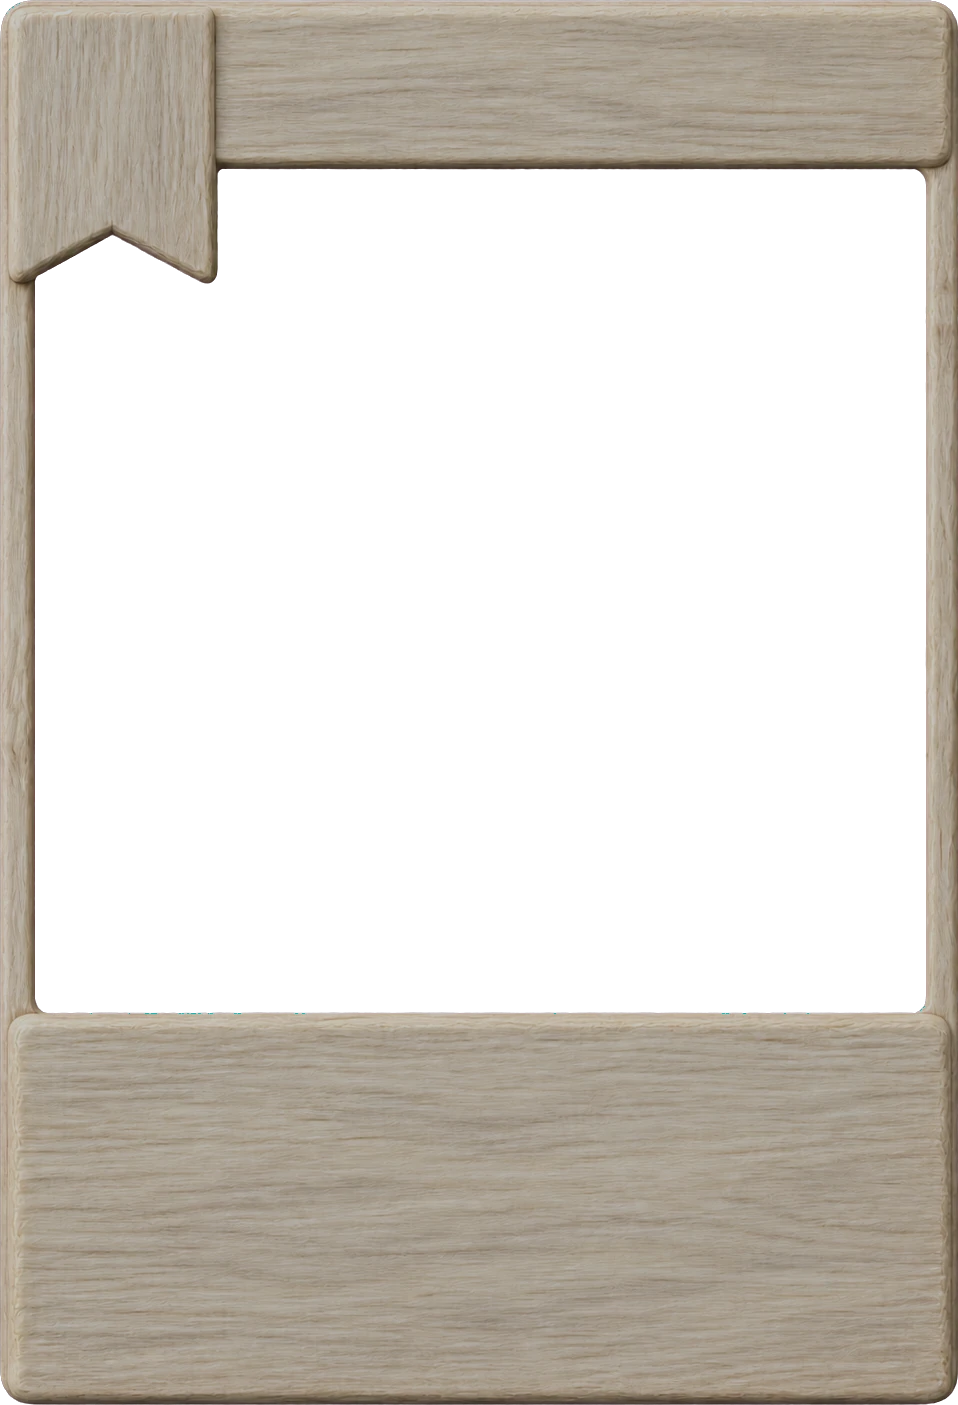
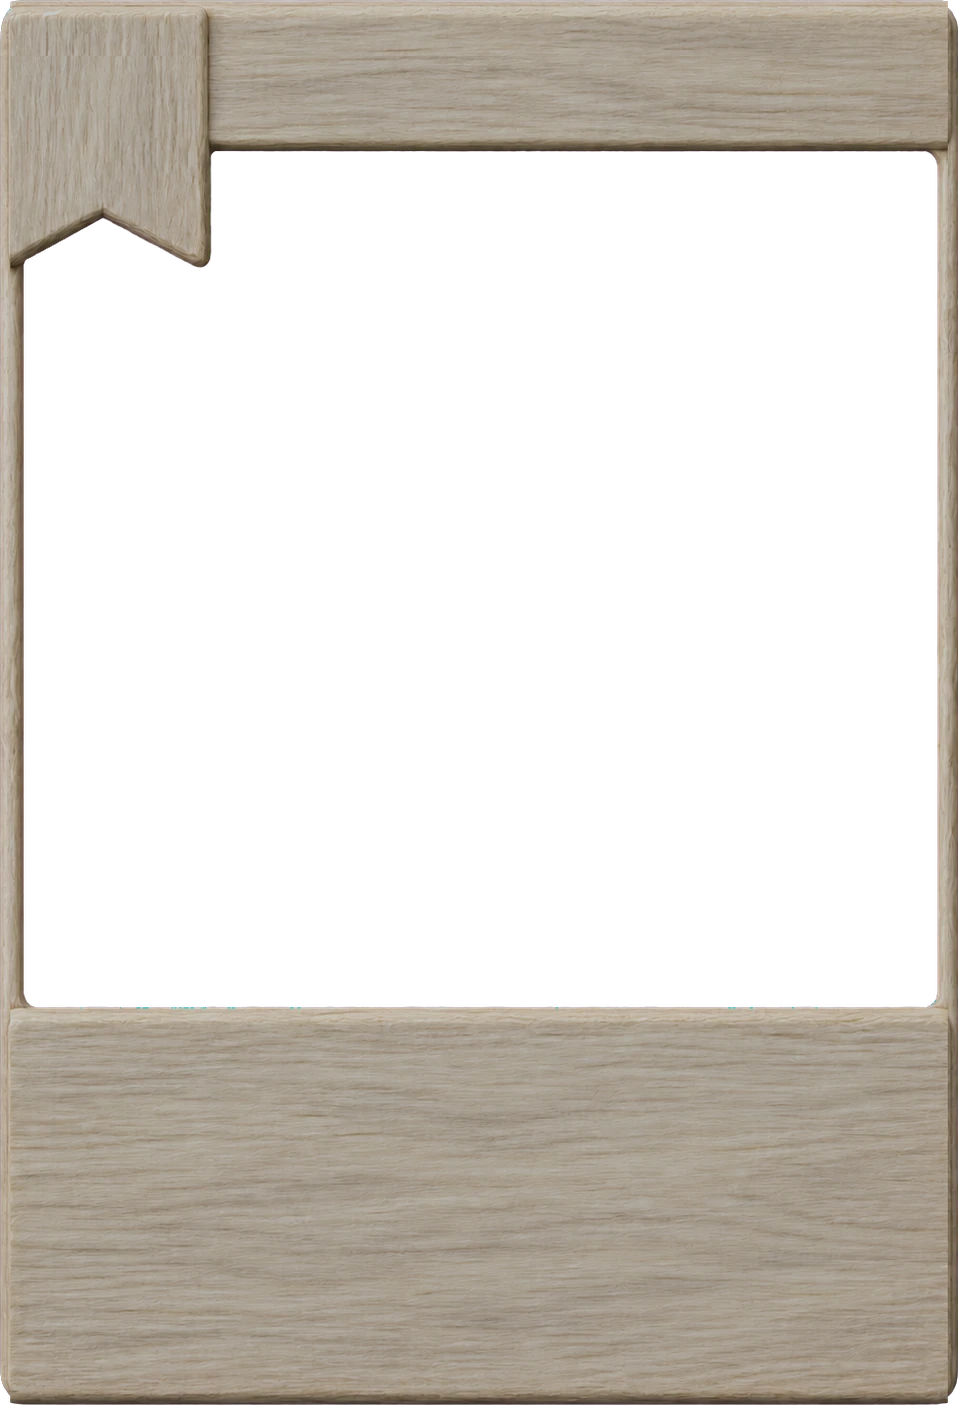
A thinner card frame: rails a third thinner and the name bar slimmer (Martin, 2026-10-04: a tad too thick), the painting's window the larger for it
Claude-Session: https://claude.ai/code/session_01XAhbFhuc5kuF4UA2Ub2dGh

diff --git a/animal_kingdom/web/static/app.css b/animal_kingdom/web/static/app.css
@@ -141,34 +141,34 @@ body:has(> #app > .mscr.home, > #app > .mscr.news, > #app > .mscr.sets, > #app >
 /* Anything set into a card wears its frame (.edge: the versus moment's gem ring): the frame's wood, tinted as the card is. */
 .edge { --bw: .55em; isolation: isolate; }
 .edge::before { content: ''; position: absolute; inset: 0; z-index: -1; border-radius: inherit; background: url(/static/kit2/card_frame.webp) 50% 3% / 420% auto; filter: var(--tint, none); }
-.card { --w: 180px; --bw: .73em; --fr: url(/static/kit2/card_frame.webp); --cut: 72.1%; position: relative; width: var(--w); height: calc(var(--w) * 1.467);
+.card { --w: 180px; --bw: .49em; --fr: url(/static/kit2/card_frame.webp); --cut: 71.7%; position: relative; width: var(--w); height: calc(var(--w) * 1.467);
   font-size: calc(var(--w) / 20); flex: none; border-radius: .45em; box-shadow: .2em .45em .9em rgba(0,0,0,.55); overflow: hidden; isolation: isolate; }
 .card.compact { --fr: url(/static/kit2/card_frame_compact.webp); --cut: 100%; }
 .card .cframe { position: absolute; inset: 0; z-index: 1; pointer-events: none; background: var(--fr) 0 0 / 100% 100% no-repeat;
   filter: var(--tint, none); clip-path: inset(0 0 calc(100% - var(--cut)) 0); }
 .card .cframe.pf { filter: var(--ptint, none); clip-path: inset(var(--cut) 0 0 0); }
 /* The painting fills the window, a hair under the frame's edge all round. */
-.card .pic { position: absolute; inset: 3.4em .6em .6em; background: #3a2c1a 50% 0 / cover no-repeat; display: grid; place-items: center; }
+.card .pic { position: absolute; inset: 3.05em .4em .4em; background: #3a2c1a 50% 0 / cover no-repeat; display: grid; place-items: center; }
 .card .pic span { font: 600 1.4em/1.1 'Fira Sans Condensed', sans-serif; color: #f3e3c0; text-align: center; padding: 1em; }
-.card .nbar { position: absolute; z-index: 2; top: .15em; height: 3.3em; left: 4.6em; right: .8em; display: flex; align-items: center; justify-content: center; padding: 0 .3em; }
+.card .nbar { position: absolute; z-index: 2; top: .1em; height: 3em; left: 4.45em; right: .55em; display: flex; align-items: center; justify-content: center; padding: 0 .3em; }
 .card .nbar span { font: 600 1.4em/1 'Fira Sans Condensed', sans-serif; letter-spacing: .01em; color: #1d140a; white-space: nowrap; overflow: hidden; text-overflow: ellipsis; }
 .card .nbar.two span { white-space: normal; text-wrap: balance; text-align: center; font-size: 1.08em; overflow: visible; }
-.card .stab { position: absolute; left: 0; top: 0; width: 4.53em; height: 5.91em; z-index: 3; }
+.card .stab { position: absolute; left: 0; top: 0; width: 4.39em; height: 5.57em; z-index: 3; }
 .card.rare, .st.rare, .edge.rare { --tint: saturate(0) brightness(1.1) sepia(.35) hue-rotate(180deg) saturate(1.6); }
 .card.legendary, .st.legendary, .edge.legendary { --tint: sepia(.6) saturate(2.2) brightness(1.08); }
 .card.rare { --ptint: saturate(0) brightness(1.27) sepia(.25) hue-rotate(180deg) saturate(1.1); }   /* Martin, 2026-10-04: paler steel on rares, */
 .card.legendary { --ptint: sepia(.6) saturate(1.5) brightness(1.16); }                             /* pale gold on legendaries */
-.card .stab .n { position: absolute; left: 0; right: 0; top: 1.15em; height: 2.9em; display: flex; justify-content: center; }
-.card .stab .n.two { top: 1.45em; height: 2.3em; }
+.card .stab .n { position: absolute; left: 0; right: 0; top: 1em; height: 2.9em; display: flex; justify-content: center; }
+.card .stab .n.two { top: 1.3em; height: 2.3em; }
 .card .stab .n img { display: block; height: 100%; filter: brightness(.16) sepia(.6); }
 .card .stab .n.up img { filter: brightness(.3) sepia(1) hue-rotate(60deg) saturate(4); } .card .stab .n.down img { filter: brightness(.35) sepia(1) hue-rotate(-30deg) saturate(5); }
 .card .stab .n b { font: 800 3.5em/.8 'Fira Sans Condensed', sans-serif; color: #1f1409; }
-.card .ctext { position: absolute; z-index: 2; left: .9em; right: .9em; bottom: .35em; height: 7.6em; padding: 0 .3em 1.2em; display: flex; flex-direction: column; justify-content: center; }
+.card .ctext { position: absolute; z-index: 2; left: .7em; right: .7em; bottom: .35em; height: 7.6em; padding: 0 .3em 1.2em; display: flex; flex-direction: column; justify-content: center; }
 .card .ctext p { margin: 0; font: 500 1.3em/1.14 'Fira Sans Condensed', sans-serif; color: #1a1108; text-align: center; text-wrap: pretty; }
 .card .ctext p b { font-weight: 800; }
 .card .ctext i { position: absolute; left: 0; right: 0; bottom: .15em; text-align: center; font: 700 1em/1 'Fira Sans Condensed', sans-serif; font-style: normal; letter-spacing: .1em; text-transform: uppercase; color: #3a2a18; }
 .card.compact .ctext { display: none; }
-.card:not(.compact) .pic { bottom: 8em; background-position: 50% var(--fy, 30%); }
+.card:not(.compact) .pic { bottom: 8.15em; background-position: 50% var(--fy, 30%); }
 /* Legendary: a slow sheen crosses the card. */
 .card.legendary::after { content: ''; position: absolute; top: -20%; bottom: -20%; left: 0; width: 35%; z-index: 4; pointer-events: none;
   background: linear-gradient(90deg, rgba(255,240,200,0), rgba(255,240,200,.16), rgba(255,240,200,0)); animation: cardsheen 5.5s ease-in-out infinite; }

diff --git a/animal_kingdom/web/static/game.css b/animal_kingdom/web/static/game.css
@@ -397,8 +397,8 @@
 .game .recent .tgap { width: 10px; }
 /* A hand card read large (hover, or the tutorial explaining it) shows its rules panel, so it frames its painting as the full
    card does (its FULL height), not as the compact card's top-aligned crop. */
-.game .hc:hover .card .pic, .game .hc.shown .card .pic { bottom: 8em; background-position: 50% var(--fy, 30%); }
-.game .hc:hover .card, .game .hc.shown .card { --fr: url(/static/kit2/card_frame.webp); --cut: 72.1%; }   /* read in full: the frame with its rules panel */
+.game .hc:hover .card .pic, .game .hc.shown .card .pic { bottom: 8.15em; background-position: 50% var(--fy, 30%); }
+.game .hc:hover .card, .game .hc.shown .card { --fr: url(/static/kit2/card_frame.webp); --cut: 71.7%; }   /* read in full: the frame with its rules panel */
 /* the coach over a hovered card: the card grows to 2.1x from its bottom (top at y 347), so the coach stands above that */
 .game .coach.above.risen { bottom: calc(467px - var(--up, 0px)) !important; z-index: 31; }
 
@@ -460,9 +460,9 @@
 /* Touch (no hover): a tap only picks a card (it rises, the board stays clear); pressing and holding shows it large to read. */
 @media (hover: none) {
   .game .hc:hover { transform: none; } .game .hc:hover .card .ctext { display: none; }
-  .game .hc:hover:not(.peek):not(.shown) .card { --fr: url(/static/kit2/card_frame_compact.webp); --cut: 100%; } .game .hc:hover:not(.peek):not(.shown) .card .pic { bottom: .6em; }
+  .game .hc:hover:not(.peek):not(.shown) .card { --fr: url(/static/kit2/card_frame_compact.webp); --cut: 100%; } .game .hc:hover:not(.peek):not(.shown) .card .pic { bottom: .4em; }
   .game .hc.sel, .game .hc.sel:hover { transform: translateY(-18px); }
-  .game .hc.peek, .game .hc.peek:hover { transform: translateY(-12px) scale(2.1); z-index: 30 !important; } .game .hc.peek .card .ctext { display: flex; } .game .hc.peek .card { --fr: url(/static/kit2/card_frame.webp); --cut: 72.1%; } .game .hc.peek .card .pic { bottom: 8em; }
+  .game .hc.peek, .game .hc.peek:hover { transform: translateY(-12px) scale(2.1); z-index: 30 !important; } .game .hc.peek .card .ctext { display: flex; } .game .hc.peek .card { --fr: url(/static/kit2/card_frame.webp); --cut: 71.7%; } .game .hc.peek .card .pic { bottom: 8.15em; }
 }
 
 /* Sideways on a phone the wide stage shows at about half size: the end of a game and the concede question grow to be read and tapped. */
@@ -493,7 +493,7 @@
   background: url(/static/kit2/gem_a.webp) center / 142% no-repeat; }
 .game .intro .iside.B .iring .jewel { background-image: url(/static/kit2/gem_b.webp); }
 .game .intro .iring .gemnum { height: 1em; } .game .intro .iring .q { font: 700 .95em/1 'Fira Sans Condensed', sans-serif; color: #f3ead8; margin-left: .05em; }
-.game .intro .card .stab { display: none; } .game .intro .card .nbar { left: .8em; padding: 0 .5em; }   /* a deck's face here, not a card to weigh: no strength, the name centred */
+.game .intro .card .stab { display: none; } .game .intro .card .nbar { left: .55em; padding: 0 .5em; }   /* a deck's face here, not a card to weigh: no strength, the name centred */
 .game .intro .iside.A { animation: introL .7s cubic-bezier(.2,.8,.3,1) both; } .game .intro .iside.B { animation: introR .7s cubic-bezier(.2,.8,.3,1) both; }
 @keyframes introL { from { transform: translateX(-60vw); } } @keyframes introR { from { transform: translateX(60vw); } }
 .game .intro .ivs { font: 800 80px/1 'Fira Sans Condensed', sans-serif; color: #f3ead8; text-shadow: 0 4px 20px rgba(0,0,0,.8); animation: introVs .4s ease .55s both; }
